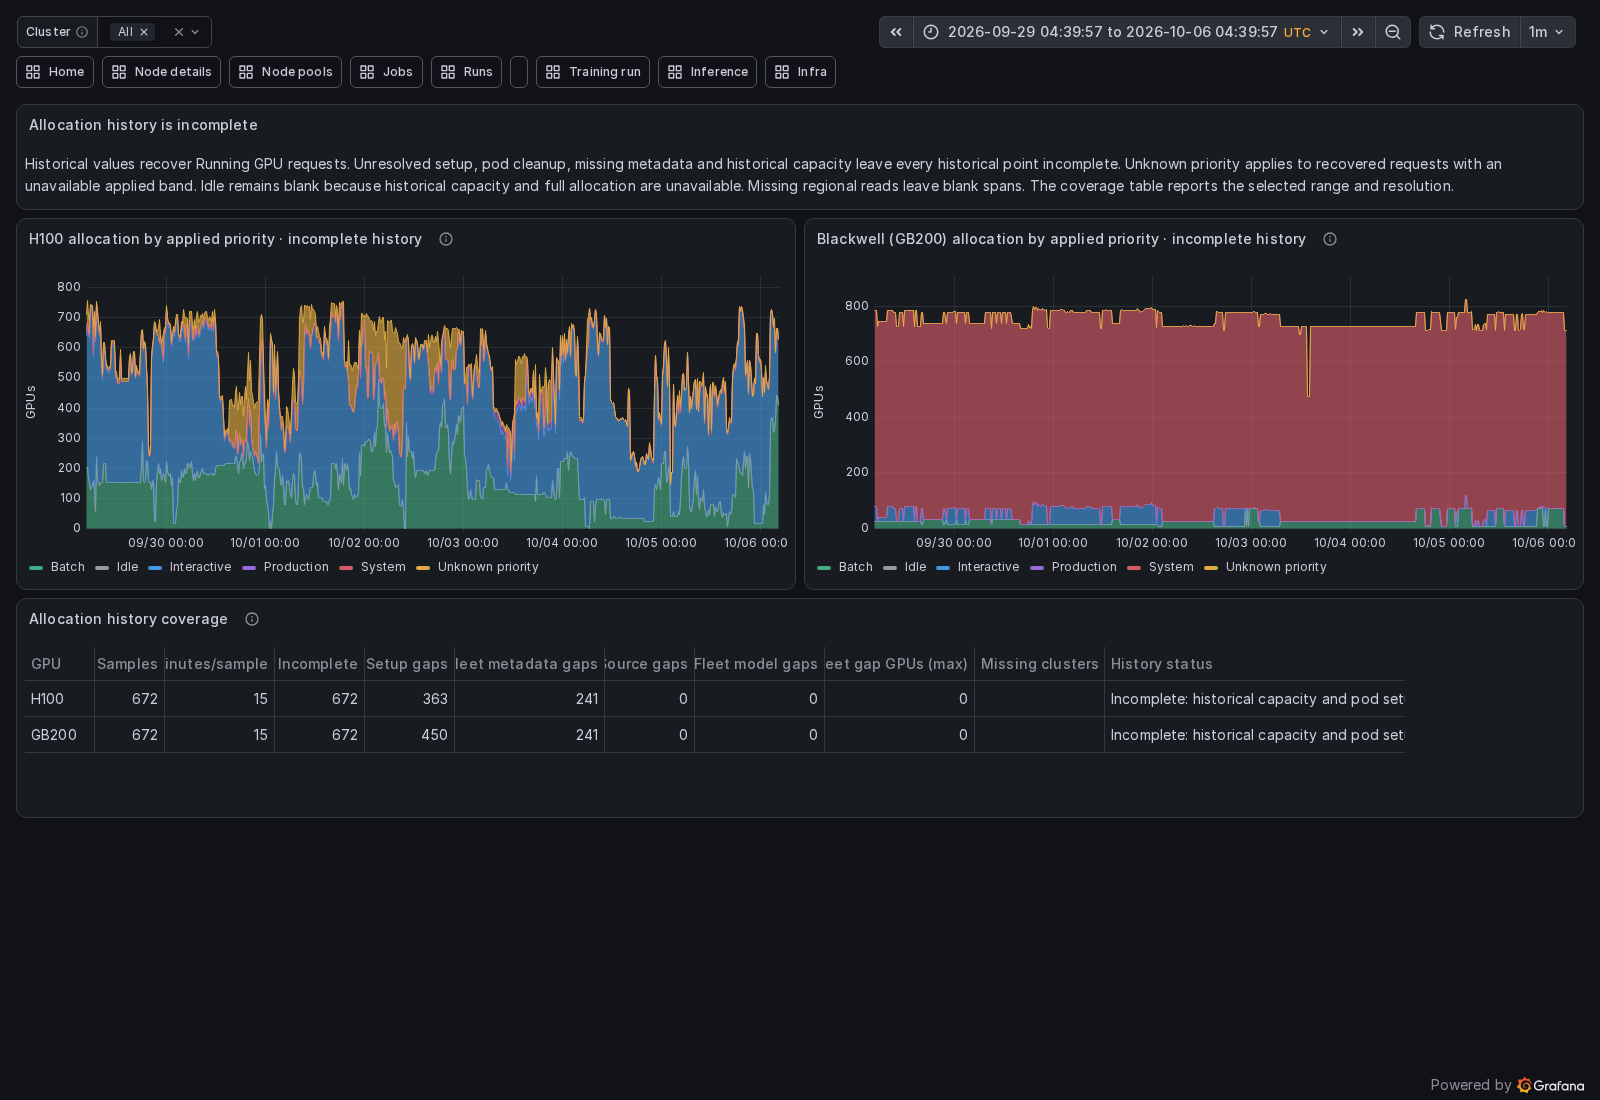
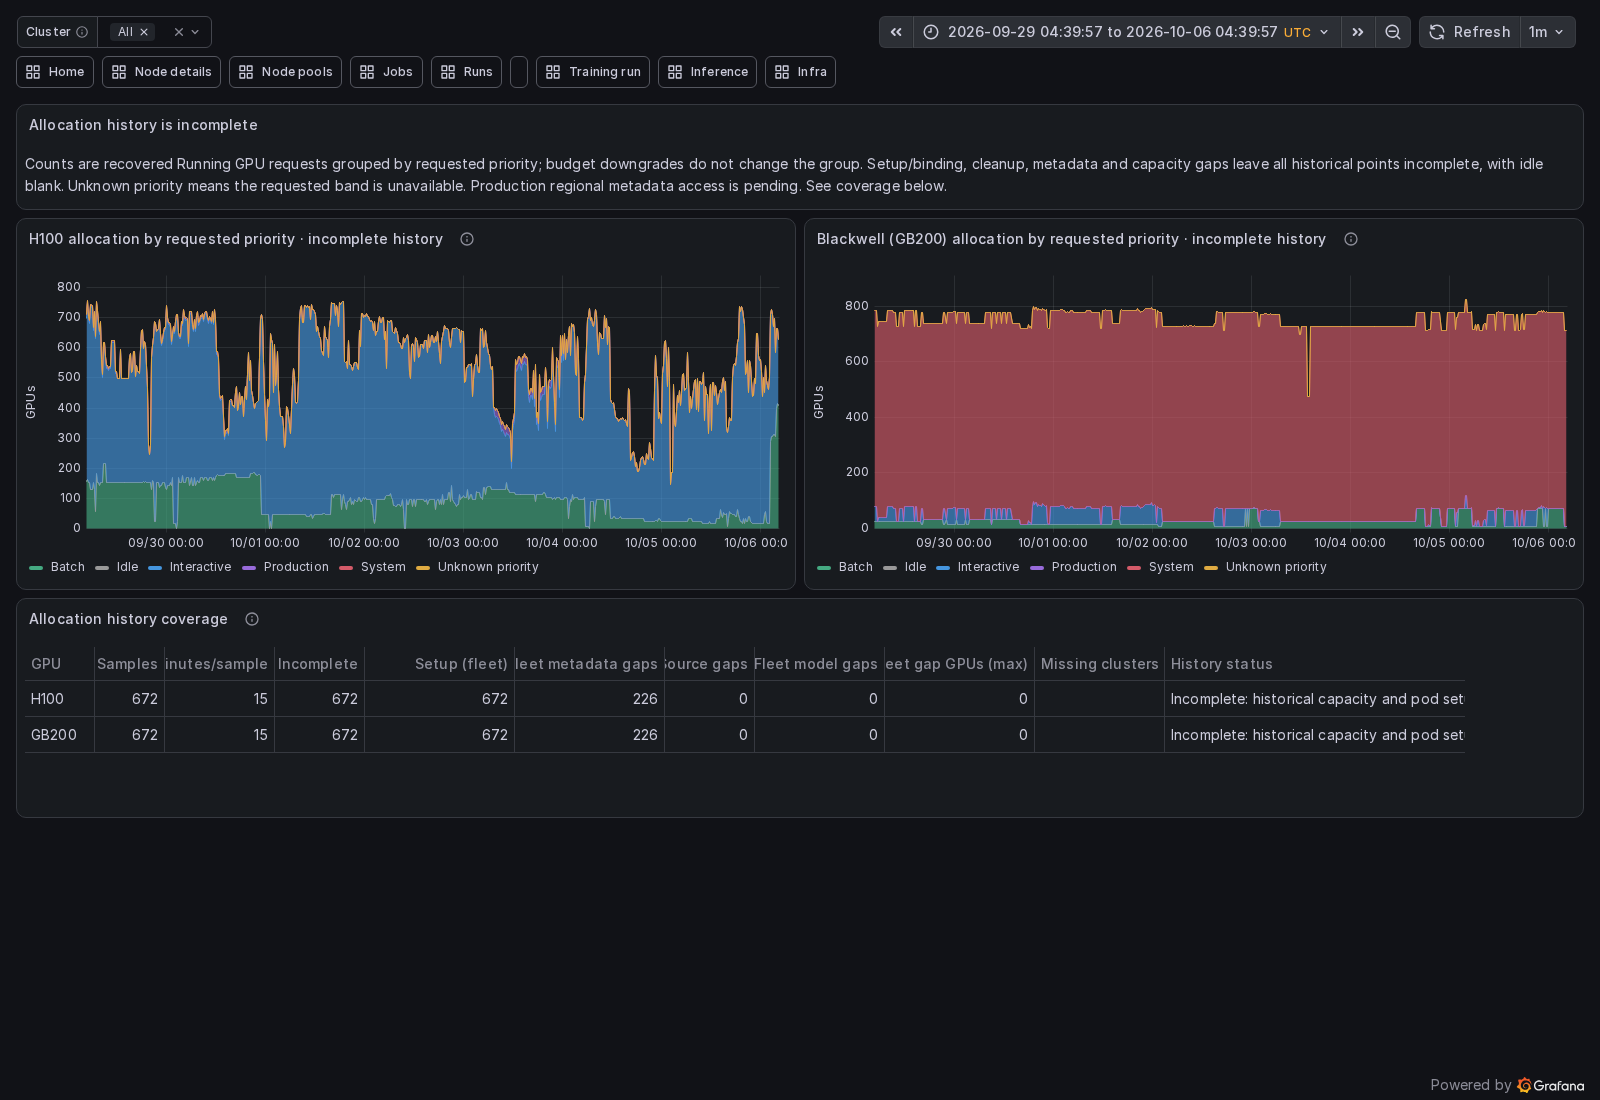
[grafana] Group GPU history by requested priority
Use each child job requested band for retained Running GPU requests. Remove applied-priority inputs and older-attempt band inference while keeping historical allocation and capacity explicitly incomplete.

Handle attempt intervals without assignment creation timestamps by reporting fleet setup tasks and leaving unverified setup GPU quantities blank. Update the captured-data preview.

diff --git a/infra/grafana/src/gpu_allocation_history.py b/infra/grafana/src/gpu_allocation_history.py
@@ -55,8 +55,6 @@ class Attempt:
     gpus: int
     model: str
     requested: Priority
-    applied: Priority
-    current_attempt: int
     attempt: int
     created: int | None
     started: int | None
@@ -67,15 +65,11 @@ class Attempt:
 
 @dataclass(frozen=True)
 class RootLifetimes:
-    created: tuple[int, ...]
-    finished: tuple[int, ...]
     running: tuple[int, ...]
     stopped: tuple[int, ...]
 
-    def counts(self, at: int) -> tuple[int, int]:
-        alive = bisect_right(self.created, at) - bisect_right(self.finished, at)
-        running = bisect_right(self.running, at) - bisect_right(self.stopped, at)
-        return running, alive - running
+    def running_count(self, at: int) -> int:
+        return bisect_right(self.running, at) - bisect_right(self.stopped, at)
 
 
 def sampling_step(start_ms: int, end_ms: int) -> int:
@@ -125,8 +119,6 @@ def metadata_table(rows: list[dict], start_ms: int, end_ms: int) -> pa.Table:
             ("gpus", pa.int32()),
             ("model", pa.string()),
             ("requested", pa.string()),
-            ("applied", pa.string()),
-            ("current_attempt", pa.int32()),
             ("attempt", pa.int32()),
             ("created", pa.int64()),
             ("started", pa.int64()),
@@ -144,8 +136,6 @@ def metadata_table(rows: list[dict], start_ms: int, end_ms: int) -> pa.Table:
                 "gpus": int(row.get("gpuCount", 0)),
                 "model": row.get("gpuVariant", "").upper(),
                 "requested": _PRIORITIES.get(row.get("requestedPriority", ""), Priority.UNKNOWN),
-                "applied": _PRIORITIES.get(row.get("currentAppliedPriority", ""), Priority.UNKNOWN),
-                "current_attempt": int(row.get("currentAttemptId", -1)),
                 "attempt": int(row.get("attemptId", -1)),
                 "created": _optional_time(row, "createdAtMs"),
                 "started": _optional_time(row, "startedAtMs"),
@@ -169,8 +159,6 @@ def _root_lifetimes(attempts: Sequence[Attempt]) -> dict[tuple[int, str], RootLi
         roots[attempt.scope_start, attempt.root].append(attempt)
     return {
         root: RootLifetimes(
-            tuple(sorted(a.created for a in rows if a.created is not None)),
-            tuple(sorted(a.finished for a in rows if a.created is not None and a.finished is not None)),
             tuple(sorted(a.started for a in rows if a.started is not None)),
             tuple(sorted(a.finished for a in rows if a.started is not None and a.finished is not None)),
         )
@@ -201,37 +189,35 @@ def history_rows(
     unresolved = [0] * (len(times) + 1)
     indexes: dict[str, dict[tuple[int, str], RootLifetimes]] = {}
     available_scopes = []
+    setup_time_scopes = []
     for (day, cluster), table in metadata.items():
         available_scopes.append((day, int(table.schema.metadata[b"scope_end"])))
         # Each day's evidence is confined to that day, including on partial failure.
         attempts = {
             (row["task"], row["attempt"], row["scope_start"]): Attempt(
-                **{**row, "requested": Priority(row["requested"]), "applied": Priority(row["applied"])}
+                **{**row, "requested": Priority(row["requested"])}
             )
             for row in table.to_pylist()
         }
         indexes.setdefault(cluster, {}).update(_root_lifetimes(tuple(attempts.values())))
+        if any(attempt.created is not None for attempt in attempts.values()):
+            setup_time_scopes.append((day, int(table.schema.metadata[b"scope_end"])))
         for attempt in attempts.values():
             if not attempt.gpus:
                 continue
             if attempt.model not in MODELS:
-                if attempt.created is not None:
+                unknown_start = attempt.created if attempt.created is not None else attempt.started
+                if unknown_start is not None:
                     finish = attempt.finished if attempt.finished is not None else attempt.scope_end
                     _add_interval(
                         unresolved,
                         times,
-                        max(attempt.created, attempt.scope_start),
+                        max(unknown_start, attempt.scope_start),
                         min(finish, attempt.scope_end),
                         attempt.gpus,
                     )
                 continue
-            band = attempt.applied if attempt.attempt == attempt.current_attempt else attempt.requested
-            if attempt.attempt != attempt.current_attempt and band not in (
-                Priority.SYSTEM,
-                Priority.PRODUCTION,
-                Priority.BATCH,
-            ):
-                band = Priority.UNKNOWN
+            band = attempt.requested
             if attempt.started is not None:
                 finish = attempt.finished if attempt.finished is not None else attempt.scope_end
                 _add_interval(
@@ -260,6 +246,7 @@ def history_rows(
     result = []
     for index, at in enumerate(times):
         missing = 0
+        setup_tasks = 0
         missing_states = []
         for cluster in clusters:
             frame = frames.get((at, cluster), [])
@@ -267,14 +254,14 @@ def history_rows(
             if rollup is None:
                 missing_states.append(cluster)
                 continue
+            setup_tasks += rollup["assigned"] + rollup["building"]
             root_rows = [r for r in frame if r["root_job_id"]]
             count = sum(r["running"] + r["assigned"] + r["building"] for r in root_rows)
             missing += abs(count - rollup["running"] - rollup["assigned"] - rollup["building"])
             for root in root_rows:
                 lifetimes = indexes.get(cluster, {}).get(((at // DAY_MS) * DAY_MS, root["root_job_id"]))
-                observed_running, observed_setup = lifetimes.counts(_epoch_ms(root["ts"])) if lifetimes else (0, 0)
+                observed_running = lifetimes.running_count(_epoch_ms(root["ts"])) if lifetimes else 0
                 missing += abs(root["running"] - observed_running)
-                missing += abs(root["assigned"] + root["building"] - observed_setup)
         unknown_model += unresolved[index]
         for key, difference in totals.items():
             running[key] += difference[index]
@@ -282,7 +269,14 @@ def history_rows(
             waiting[model] += difference[index]
             status = "Incomplete: historical capacity and pod setup/cleanup lifetimes unavailable"
             unavailable = sorted(
-                {cluster for (day, cluster) in failures if day == (at // DAY_MS) * DAY_MS} | set(missing_states)
+                {cluster for (day, cluster) in failures if day == (at // DAY_MS) * DAY_MS}
+                | set(missing_states)
+                | {
+                    cluster
+                    for cluster in clusters
+                    if (table := metadata.get(((at // DAY_MS) * DAY_MS, cluster))) is None
+                    or at >= int(table.schema.metadata[b"scope_end"])
+                }
             )
             if unavailable:
                 status += "; missing sources: " + ", ".join(unavailable)
@@ -301,7 +295,12 @@ def history_rows(
                     "idle": None,
                     "incomplete": 1,
                     "resolution_minutes": step_ms // 60_000,
-                    "setup_gpu_requests": waiting[model],
+                    "setup_tasks": setup_tasks,
+                    "setup_gpu_requests": (
+                        waiting[model]
+                        if not setup_tasks or any(begin <= at < stop for begin, stop in setup_time_scopes)
+                        else None
+                    ),
                     "missing_task_metadata": missing,
                     "unknown_model_gpu_requests": unknown_model,
                     "status": status,

diff --git a/infra/grafana/tests/test_gpu_allocation_history.py b/infra/grafana/tests/test_gpu_allocation_history.py
@@ -84,7 +84,7 @@ def _state(points):
     return pa.Table.from_pylist(rows, schema=schema)
 
 
-def test_history_preserves_retry_boundaries_child_shapes_and_unknown_old_priority():
+def test_history_preserves_retry_boundaries_child_shapes_and_requested_priority():
     metadata = metadata_table(
         [
             _attempt("/u/root/0", 0, 1, applied="INTERACTIVE"),
@@ -99,7 +99,8 @@ def test_history_preserves_retry_boundaries_child_shapes_and_unknown_old_priorit
     state = _state([(60_000, 59_000, 2, 0), (120_000, 119_000, 3, 1)])
     rows = history_rows(state, {(0, CLUSTER): metadata}, {}, 60_000, 180_000, 60_000, (CLUSTER,))
     h100 = [r for r in rows if r["model"] == "H100"]
-    assert h100[0]["unknown_priority"] == 2
+    assert h100[0]["interactive"] == 2
+    assert h100[0]["unknown_priority"] == 0
     assert h100[0]["batch"] == 0
     assert h100[1]["interactive"] == 2
     assert h100[1]["batch"] == 0  # The eight-GPU attempt ended exactly at this instant.
@@ -124,10 +125,14 @@ def test_history_does_not_extend_a_cached_attempt_into_a_day_with_missing_metada
     assert all(row["idle"] is None for row in rows)
 
 
-def test_history_does_not_assign_unresolved_gpu_models_to_a_priority_or_idle_band():
+@pytest.mark.parametrize("started", [None, 1])
+def test_history_does_not_assign_unresolved_gpu_models_to_a_priority_or_idle_band(started):
+    attempt = _attempt("/u/root/0", 8, started, model="auto")
+    if started is not None:
+        del attempt["createdAtMs"]
     rows = history_rows(
-        _state([(60_000, 59_000, 0, 1)]),
-        {(0, CLUSTER): metadata_table([_attempt("/u/root/0", 8, None, model="auto")], 0, DAY_MS)},
+        _state([(60_000, 59_000, int(started is not None), int(started is None))]),
+        {(0, CLUSTER): metadata_table([attempt], 0, DAY_MS)},
         {},
         60_000,
         120_000,
@@ -149,6 +154,26 @@ def test_history_does_not_project_counts_past_the_metadata_observation_range():
         (CLUSTER,),
     )
     assert all(row["batch"] is None and row["idle"] is None for row in rows)
+
+
+def test_read_api_intervals_without_assignment_times_do_not_invent_setup_gpu_counts():
+    attempt = _attempt("/u/root/0", 8, 20_000)
+    del attempt["createdAtMs"]  # Existing TaskAttempt RPCs do not expose assignment creation.
+    rows = history_rows(
+        _state([(60_000, 59_000, 1, 2)]),
+        {(0, CLUSTER): metadata_table([attempt], 0, DAY_MS)},
+        {},
+        60_000,
+        120_000,
+        60_000,
+        (CLUSTER,),
+    )
+    h100 = next(row for row in rows if row["model"] == "H100")
+    assert h100["interactive"] == 8
+    assert h100["setup_tasks"] == 2
+    assert h100["setup_gpu_requests"] is None
+    assert h100["missing_task_metadata"] == 0
+    assert h100["idle"] is None
 
 
 def _database_source(database):
@@ -217,7 +242,8 @@ def test_bridge_reads_whole_emissions_and_shares_inputs_between_both_models():
             first = client.get("/finelog/marin/v1/gpu/allocation", params={**params, "model": "H100"})
             second = client.get("/finelog/marin/v1/gpu/allocation", params={**params, "model": "GB200"})
             assert first.status_code == second.status_code == 200
-            assert first.json()[0]["batch"] == 4
+            assert first.json()[0]["interactive"] == 4
+            assert first.json()[0]["batch"] == 0  # The captured dispatch band was Batch.
             assert first.json()[0]["missing_task_metadata"] == 0
             assert second.json()[0]["batch"] == 0
             assert first.json()[0]["unknown_model_gpu_requests"] == 8

diff --git a/infra/grafana/src/server.py b/infra/grafana/src/server.py
@@ -747,7 +747,7 @@ def create_app(
                             "samples": len(points),
                             "incomplete_samples": sum(r["incomplete"] for r in points),
                             "resolution_minutes": points[0]["resolution_minutes"] if points else None,
-                            "setup_gap_samples": sum(r["setup_gpu_requests"] > 0 for r in points),
+                            "setup_gap_samples": sum(r["setup_tasks"] > 0 for r in points),
                             "metadata_gap_samples": sum(r["missing_task_metadata"] > 0 for r in points),
                             "missing_source_samples": sum(bool(r["missing_clusters"]) for r in points),
                             "unknown_model_gap_samples": sum(r["unknown_model_gpu_requests"] > 0 for r in points),

diff --git a/infra/grafana/README.md b/infra/grafana/README.md
@@ -398,15 +398,17 @@ The H100 and Blackwell (GB200) allocation panels on Fleet accelerators default t
 seven days. They sample retained Running GPU requests at common instants: every
 minute for ranges up to six hours, five minutes up to two days, and fifteen
 minutes up to seven days. Each request uses the owning child job's GPU shape and
-its attempt interval. A current attempt uses its persisted applied priority,
-including budget downgrades. Older Interactive attempts with an unverified band
-appear as unknown priority; older System, Production and Batch bands follow the
-controller's immutable-band policy.
+its attempt interval. Priority groups use the owning child job's requested band.
+An Interactive request dispatched as Batch remains in the Interactive group.
+Requests whose requested band is unavailable use unknown priority. There is no
+requested/applied toggle or applied-priority lookup.
 
 Historical points are incomplete. Retained metadata does not establish exact
 node binding during setup, pod cleanup after an attempt ends, or historical
 Kubernetes allocatable capacity. The coverage table quantifies setup and metadata
-gaps and names unavailable regional sources. Missing allocation does not become
+gaps and names unavailable regional sources. Setup task counts are fleet-wide and
+include CPU tasks. Setup GPU quantities remain blank when assignment times are
+unavailable through the read APIs. Missing allocation does not become
 unknown priority or idle. A missing regional source leaves a blank span instead of
 a reduced fleet total. Cluster Capacity remains the live allocation reference.
 
